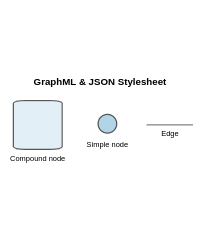
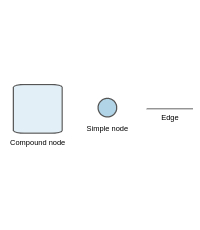
Update stylesheet images and add them to demo client

diff --git a/public/index.html b/public/index.html
@@ -203,7 +203,7 @@
         <div class="ui center aligned header" id="about">
           ABOUT
         </div>        
-        <div class="content" style="text-align: justify;">
+        <div class="scrolling content" style="text-align: justify;">
           <b>Systems Biology Layout & Rendering Service (SyBLaRS)</b> is a web service to lay out graphs in SBGNML, SBML, GraphML and JSON 
           formats and produce corresponding images of the layouts in the backend. This page presents a sample client-side demo for SyBLaRS. <br><br>
           To use the demo, please follow these steps:
@@ -214,6 +214,32 @@
             <li>Click on "Apply Layout" button</li>
             <li>Now you can view/download layout info in "JSON" field and corresponding image in "Image" field</li>
           </ul>
+
+            Here are the notations used for
+            <div class="ui accordion">
+              <div class="title">
+                <i class="dropdown icon"></i>
+                SBGNML Stylesheet
+              </div>
+              <div class="content">
+                <img class="image" src="https://raw.githubusercontent.com/iVis-at-Bilkent/syblars/main/img/SBGNML_stylesheet.svg" width="700px">
+              </div>
+              <div class="title">
+                <i class="dropdown icon"></i>
+                SBML Stylesheet
+              </div>
+              <div class="content">
+                <img class="image" src="https://raw.githubusercontent.com/iVis-at-Bilkent/syblars/main/img/SBML_stylesheet.svg" width="700px">
+              </div>
+              <div class="title">
+                <i class="dropdown icon"></i>
+                GraphML & JSON Stylesheet
+              </div>
+              <div class="content">
+                <img class="image" src="https://raw.githubusercontent.com/iVis-at-Bilkent/syblars/main/img/GraphML&JSON_stylesheet.svg" width="700px">
+              </div>
+            </div> 
+ 
           <p class="address-text">
             The source code of the service together with further details/help can be found <a href="https://github.com/iVis-at-Bilkent/syblars" target="_blank">here</a>. 
           </p>          

diff --git a/public/js/main.menu.js b/public/js/main.menu.js
@@ -251,6 +251,8 @@ $("#informationModal").on("click", function (e) {
    $('#information-modal').modal({inverted: true}).modal('show');
 });
 
+$('.ui.accordion').accordion();
+
 $("#imageSettingsDefault").on("click", function (e) {
    $("input[value='png']").prop("checked", true);
    $("#imageWidth").val(1280);

diff --git a/public/style.css b/public/style.css
@@ -1,5 +1,5 @@
 body {
-   color: #56423E;
+   color: #56423E !important;
 }
 
 .ui.header {
@@ -29,6 +29,10 @@ body {
 
 .input-file {
   color: #56423E !important;  
+}
+
+.ui.accordion .title:not(.ui){
+  color: #56423E !important;
 }
 
 label {

diff --git a/README.md b/README.md
@@ -43,7 +43,7 @@ SyBLaRS supports the following input formats for graphs:
 
 The notations used for these formats:
 
-SBGNML             |  SBML |  GraphML & JSON
+SBGNML Stylesheet            |  SBML Stylesheet |  GraphML & JSON
 -------------------------|-------------------------|-------------------------
 <a href="https://raw.githubusercontent.com/iVis-at-Bilkent/syblars/main/img/SBGNML_stylesheet.svg" title="SBGNML stylesheet"><img src="img/SBGNML_stylesheet.jpg"></a>  |  <a href="https://raw.githubusercontent.com/iVis-at-Bilkent/syblars/main/img/SBML_stylesheet.svg" title="SBML stylesheet"><img src="img/SBML_stylesheet.jpg"></a> | <a href="https://raw.githubusercontent.com/iVis-at-Bilkent/syblars/main/img/GraphML&JSON_stylesheet.svg" title="GraphML & JSON stylesheet"><img src="img/GraphML&JSON_stylesheet.jpg"></a>
 
